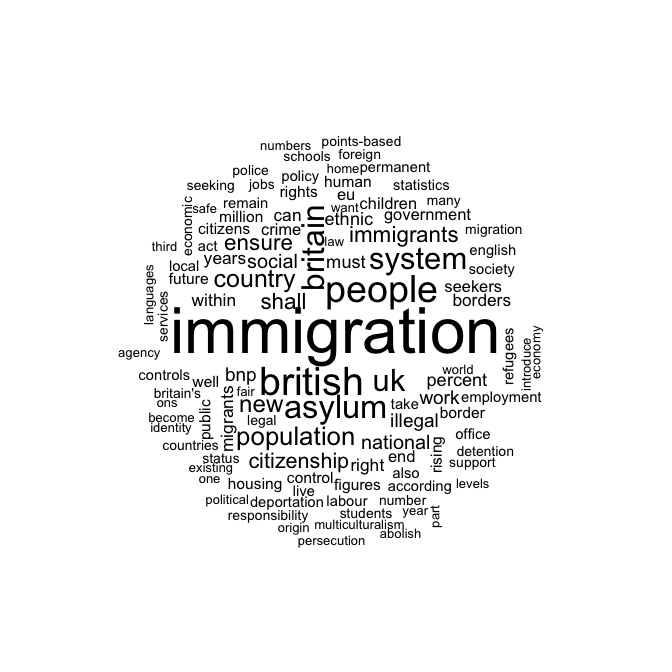
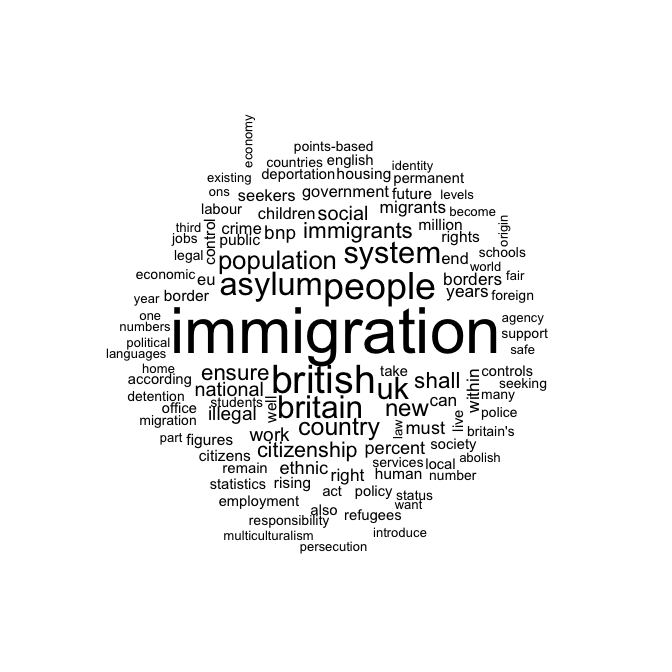
Update index.Rmd

Changed region(s): [[0.1562, 0.1875, 0.8125, 0.8438]]

diff --git a/content/readme/index.md b/content/readme/index.md
@@ -46,24 +46,24 @@ As of version 0.8.0, the GitHub master repository will always contain the develo
 
 1.  From CRAN, using your R package installer, or simply
 
-	```
-	install.packages("quanteda")
-	```
+    ``` r
+    install.packages("quanteda")
+    ```
 
 2.  (For the development version) From GitHub, using
 
-	```
-	devtools::install_github("kbenoit/quanteda")
-	```
+    ``` r
+    devtools::install_github("kbenoit/quanteda")
+    ```
 
     Because this compiles some C++ source code, you will need a compiler installed. If you are using a Windows platform, this means you will need also to install the [Rtools](http://cran.r-project.org/bin/windows/Rtools/) software available from CRAN. If you are using OS X, you will probably need to install XCode, available for free from the App Store.
 
 3.  (Optional) You can install some additional corpus data from **quantedaData** using
 
-	``` s
-	## devtools required to install quanteda from Github
-	devtools::install_github("kbenoit/quantedaData")
-	```
+    ``` r
+    ## devtools required to install quanteda from Github
+    devtools::install_github("kbenoit/quantedaData")
+    ```
 
 Documentation
 -------------
@@ -72,7 +72,7 @@ In-depth tutorials in the form of a gitbook will be available here [here](http:/
 
 Examples for any function can also be seen using (for instance, for `corpus()`):
 
-``` s
+``` r
 example(corpus)
 ```
 
@@ -83,71 +83,103 @@ Example
 
 ``` r
 library(quanteda)
-#> 
-#> Attaching package: 'quanteda'
-#> The following object is masked from 'package:stats':
-#> 
-#>     df
-#> The following object is masked from 'package:base':
-#> 
-#>     sample
+```
+
+    ## 
+    ## Attaching package: 'quanteda'
+
+    ## The following object is masked from 'package:stats':
+    ## 
+    ##     df
+
+    ## The following object is masked from 'package:base':
+    ## 
+    ##     sample
+
+``` r
 # create a corpus from the immigration texts from UK party platforms
 uk2010immigCorpus <- corpus(ukimmigTexts,
                             docvars=data.frame(party=names(ukimmigTexts)),
                             notes="Immigration-related sections of 2010 UK party manifestos",
                             enc="UTF-8")
-#> Warning in corpus.character(ukimmigTexts, docvars = data.frame(party =
-#> names(ukimmigTexts)), : Argument enc not used.
-uk2010immigCorpus
-#> Corpus consisting of 9 documents.
-summary(uk2010immigCorpus, showmeta=TRUE)
-#> Corpus consisting of 9 documents.
-#> 
-#>          Text Types Tokens Sentences        party
-#>           BNP  1126   3330        88          BNP
-#>     Coalition   144    268         4    Coalition
-#>  Conservative   252    503        15 Conservative
-#>        Greens   325    687        21       Greens
-#>        Labour   296    703        29       Labour
-#>        LibDem   257    499        14       LibDem
-#>            PC    80    118         5           PC
-#>           SNP    90    136         4          SNP
-#>          UKIP   346    739        27         UKIP
-#> 
-#> Source:  /Users/kbenoit/Dropbox/Sites/TAUR/content/readme/* on x86_64 by kbenoit
-#> Created: Mon Apr  4 11:33:14 2016
-#> Notes:   Immigration-related sections of 2010 UK party manifestos
+```
 
+    ## Warning in corpus.character(ukimmigTexts, docvars = data.frame(party =
+    ## names(ukimmigTexts)), : Argument enc not used.
+
+``` r
+uk2010immigCorpus
+```
+
+    ## Corpus consisting of 9 documents.
+
+``` r
+summary(uk2010immigCorpus, showmeta=TRUE)
+```
+
+    ## Corpus consisting of 9 documents.
+    ## 
+    ##          Text Types Tokens Sentences        party
+    ##           BNP  1126   3330        88          BNP
+    ##     Coalition   144    268         4    Coalition
+    ##  Conservative   252    503        15 Conservative
+    ##        Greens   325    687        21       Greens
+    ##        Labour   296    703        29       Labour
+    ##        LibDem   257    499        14       LibDem
+    ##            PC    80    118         5           PC
+    ##           SNP    90    136         4          SNP
+    ##          UKIP   346    739        27         UKIP
+    ## 
+    ## Source:  /Users/kbenoit/Dropbox/GitHub/testing/content/readme/* on x86_64 by kbenoit
+    ## Created: Mon Apr  4 15:02:03 2016
+    ## Notes:   Immigration-related sections of 2010 UK party manifestos
+
+``` r
 # key words in context for "deport", 3 words of context
 kwic(uk2010immigCorpus, "deport", 3)
-#>                        contextPre keyword                contextPost
-#>  [BNP, 159]        The BNP will [  deport ] all foreigners convicted
-#> [BNP, 1970]                . 2. [  Deport ] all illegal immigrants  
-#> [BNP, 1976] immigrants We shall [  deport ] all illegal immigrants  
-#> [BNP, 2621]  Criminals We shall [  deport ] all criminal entrants
+```
 
+    ##                        contextPre keyword                contextPost
+    ##  [BNP, 159]        The BNP will [  deport ] all foreigners convicted
+    ## [BNP, 1970]                . 2. [  Deport ] all illegal immigrants  
+    ## [BNP, 1976] immigrants We shall [  deport ] all illegal immigrants  
+    ## [BNP, 2621]  Criminals We shall [  deport ] all criminal entrants
+
+``` r
 # create a dfm, removing stopwords
 mydfm <- dfm(uk2010immigCorpus, ignoredFeatures=c("will", stopwords("english")))
-#> Creating a dfm from a corpus ...
-#>    ... lowercasing
-#>    ... tokenizing
-#>    ... indexing documents: 9 documents
-#>    ... indexing features: 1,586 feature types
-#>    ... removed 97 features, from 175 supplied (glob) feature types
-#>    ... created a 9 x 1489 sparse dfm
-#>    ... complete. 
-#> Elapsed time: 0.037 seconds.
+```
+
+    ## Creating a dfm from a corpus ...
+    ##    ... lowercasing
+    ##    ... tokenizing
+    ##    ... indexing documents: 9 documents
+    ##    ... indexing features: 1,586 feature types
+    ##    ... removed 97 features, from 175 supplied (glob) feature types
+    ##    ... created a 9 x 1489 sparse dfm
+    ##    ... complete. 
+    ## Elapsed time: 0.037 seconds.
+
+``` r
 dim(mydfm)              # basic dimensions of the dfm
-#> [1]    9 1489
+```
+
+    ## [1]    9 1489
+
+``` r
 topfeatures(mydfm, 20)  # 20 top words
-#> immigration     british      people      asylum     britain          uk 
-#>          66          37          35          29          28          27 
-#>      system  population     country         new  immigrants      ensure 
-#>          27          21          20          19          17          17 
-#>       shall citizenship      social    national         bnp     illegal 
-#>          17          16          14          14          13          13 
-#>        work     percent 
-#>          13          12
+```
+
+    ## immigration     british      people      asylum     britain          uk 
+    ##          66          37          35          29          28          27 
+    ##      system  population     country         new  immigrants      ensure 
+    ##          27          21          20          19          17          17 
+    ##       shall citizenship      social    national         bnp     illegal 
+    ##          17          16          14          14          13          13 
+    ##        work     percent 
+    ##          13          12
+
+``` r
 plot(mydfm, min.freq = 6, random.order = FALSE)             # word cloud     
 ```
 
